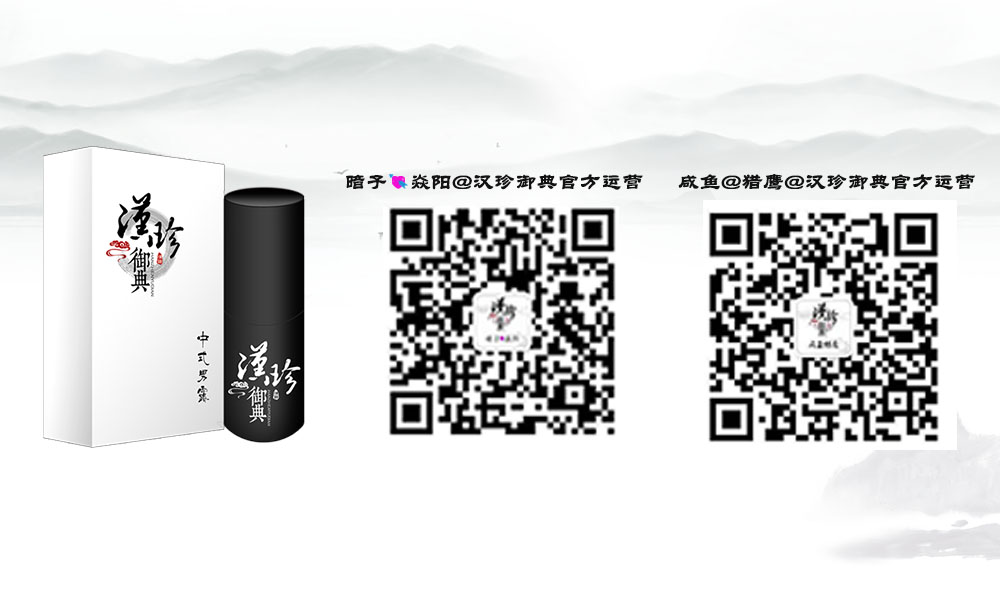
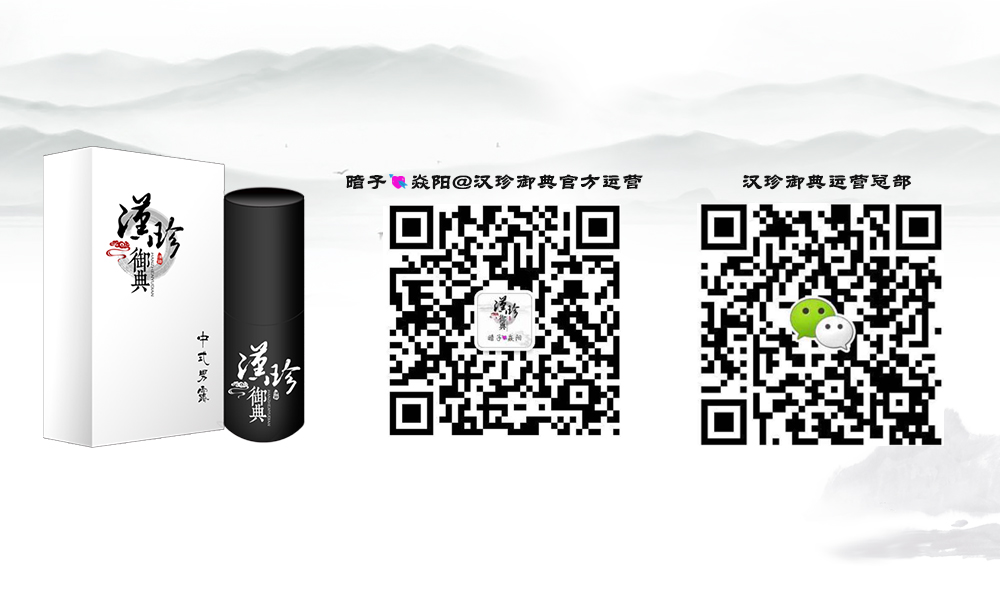
change qrcode iamge

Changed region(s): [[0.682, 0.27, 0.992, 0.75], [0.372, 0.33, 0.62, 0.75]]

diff --git a/public/javascripts/search.js b/public/javascripts/search.js
@@ -82,8 +82,6 @@ $(document).ready(function() {
                 valiableshop = obj;
             }
         })
-        console.log(isTrueShop)
-        console.log(valiableshop);
         return {isTrueShop: isTrueShop, valiableshop: valiableshop};
     }
 })
